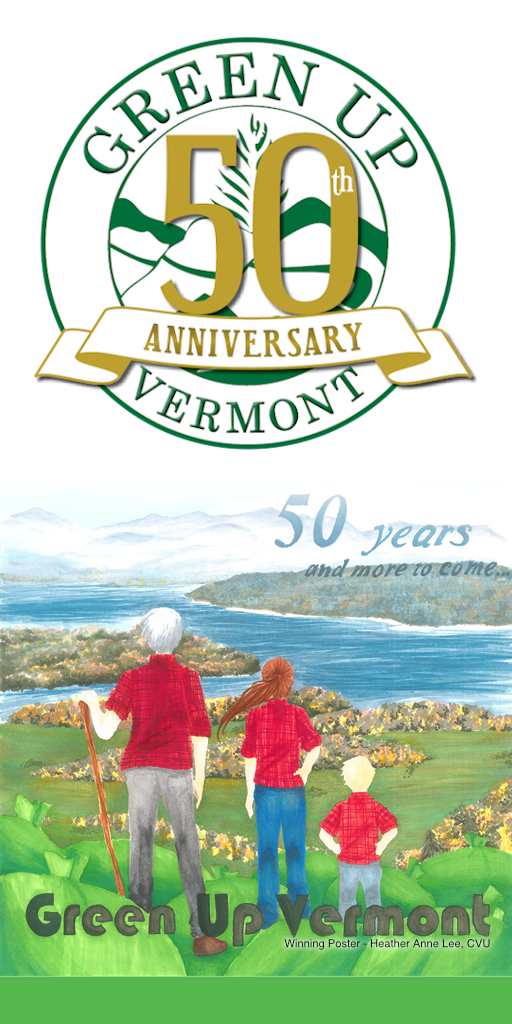
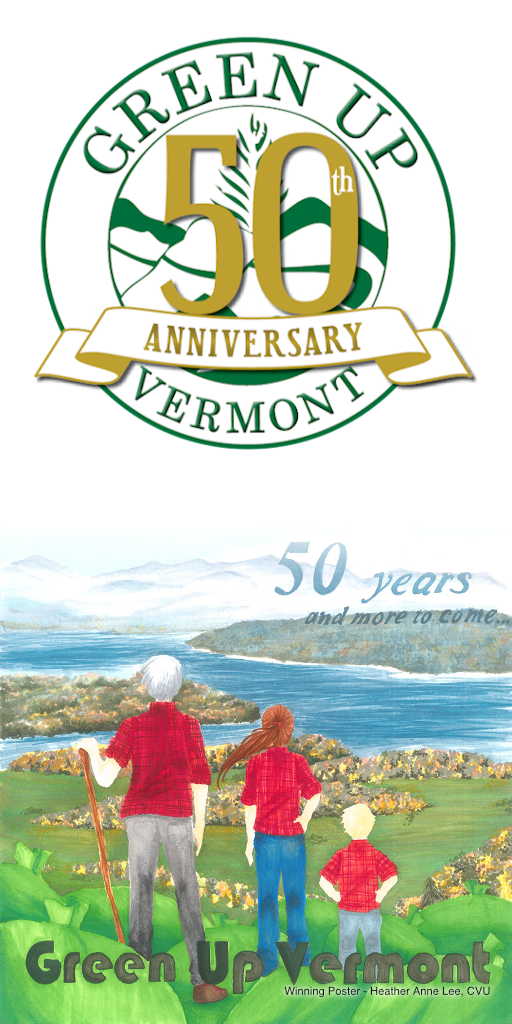
Updated poster looks better in non-dev situation.

diff --git a/App.js b/App.js
@@ -58,7 +58,15 @@ const App = ({ skipLoadingScreen }: PropsType): React$Element<any> => {
     };
 
     const handleFinishLoading = () => {
-        setIsLoadingComplete(true);
+            // This pause lets a user see the loading screen longer,
+            // which is good because it has a winning poster picture on it.
+            // The pause is long enough that people can see the poster,
+            // and short enough it shouldn't bother anyone.
+            setTimeout(() => {
+                setIsLoadingComplete(true);
+            }, 
+            4000
+        );
     };
 
     const load = (
